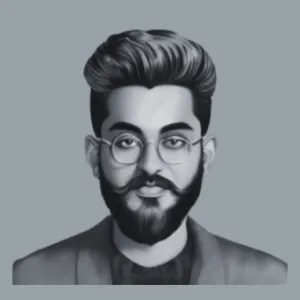
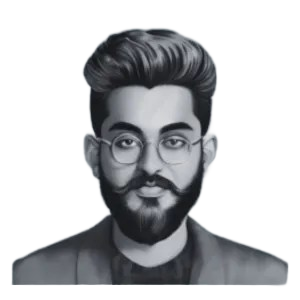
feat(ui): transparent-background author photo (AI cutout) on accent-pale backdrop, hero card + bio section

diff --git a/apps/web/src/app/(site)/page.tsx b/apps/web/src/app/(site)/page.tsx
@@ -37,7 +37,8 @@ export default async function HomePage() {
   return (
     <div className="space-y-12">
       {/* Hero: direct answer for "best prop firms" */}
-      <section>
+      <section className="flex flex-wrap items-start justify-between gap-x-10 gap-y-6">
+        <div className="min-w-0 flex-1 basis-[36rem]">
         <p className="mb-2 text-xs font-bold tracking-widest text-accent uppercase">
           Updated{' '}
           {new Date().toLocaleDateString('en-US', {
@@ -96,24 +97,28 @@ export default async function HomePage() {
             </span>
             Quality over quantity — the top firms reviewed deeply, not 500 listed shallowly.
           </p>
-          <a href="#author-h" className="group flex items-center gap-2.5">
-            <img
-              src="/ayub-rana.png"
-              alt=""
-              width={52}
-              height={52}
-              className="h-13 w-13 rounded-full border-2 border-line object-cover"
-            />
-            <span className="leading-tight">
-              <span className="block font-serif text-lg italic group-hover:text-accent-dark">
-                Ayub Rana
-              </span>
-              <span className="block text-xs text-ink-3">
-                CA &amp; forex trader — every review personally verified
-              </span>
-            </span>
-          </a>
         </div>
+        </div>
+
+        {/* Author card beside the headline */}
+        <a
+          href="#author-h"
+          className="group flex shrink-0 flex-col items-center rounded-lg border border-line bg-card p-4 text-center"
+        >
+          <img
+            src="/ayub-rana.png"
+            alt="Ayub Rana, Chartered Accountant and forex trader"
+            width={132}
+            height={132}
+            className="h-33 w-33 rounded-lg bg-accent-pale object-cover"
+          />
+          <span className="mt-3 font-serif text-xl italic group-hover:text-accent-dark">
+            Ayub Rana
+          </span>
+          <span className="mt-0.5 max-w-40 text-xs leading-snug text-ink-3">
+            CA &amp; forex trader — every review personally verified
+          </span>
+        </a>
       </section>
 
       {/* Ranked data table near the top — AI-Overview / featured-snippet target */}
@@ -279,7 +284,7 @@ export default async function HomePage() {
             alt="Ayub Rana, Chartered Accountant and forex trader — PropFirmSquad reviewer"
             width={112}
             height={112}
-            className="h-28 w-28 shrink-0 rounded-lg border border-line object-cover"
+            className="h-28 w-28 shrink-0 rounded-lg bg-accent-pale object-cover"
           />
           <div>
             <h2 id="author-h" className="mb-1 text-2xl font-extrabold tracking-tight">
